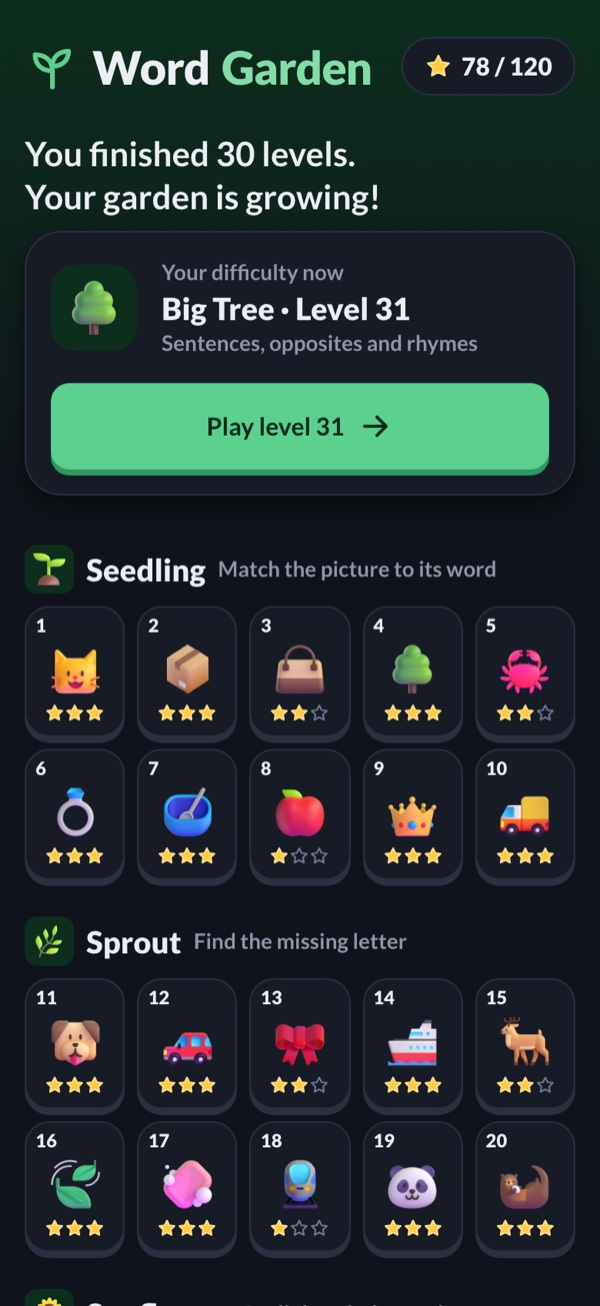
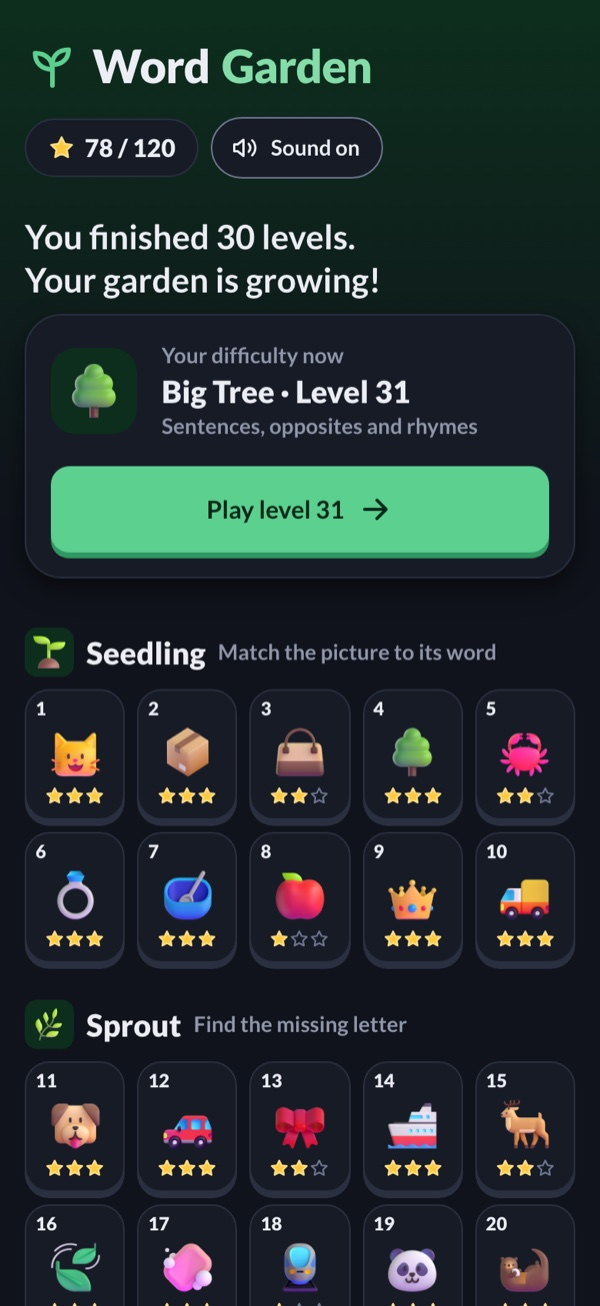
Sound effects for right and wrong answers, with a Sound on/off toggle
Web Audio chime (C5-E5-G5-C6 triangle) for right, soft sawtooth uh-oh for
wrong, no sound files. The word is spoken 450 ms after the chime, only if
the same card is still showing. Audio unlocks on the first tap or key.
The home-screen toggle is saved as P.sound, survives Start over, and plays
the chime when turned on; it mutes the effects only.

diff --git a/app.js b/app.js
@@ -45,6 +45,7 @@ const ICON={
   lock:'<rect x="5" y="11" width="14" height="10" rx="2"/><path d="M8 11V8a4 4 0 0 1 8 0v3"/>',
   unlock:'<rect x="5" y="11" width="14" height="10" rx="2"/><path d="M8 11V8a4 4 0 0 1 7.7-1.5"/>',
   speaker:'<path d="M11 5 6 9H3v6h3l5 4V5z"/><path d="M15.5 8.5a5 5 0 0 1 0 7"/><path d="M18.5 5.5a9 9 0 0 1 0 13"/>',
+  mute:'<path d="M11 5 6 9H3v6h3l5 4V5z"/><path d="m16 9 6 6M22 9l-6 6"/>',
   trophy:'<path d="M8 4h8v5a4 4 0 0 1-8 0V4z"/><path d="M16 6h3a3 3 0 0 1-3 4M8 6H5a3 3 0 0 0 3 4"/><path d="M12 13v4M8 21h8M9 17h6v4H9z"/>',
   back:'<path d="m15 18-6-6 6-6"/>',
   next:'<path d="M5 12h14M13 6l6 6-6 6"/>',
@@ -108,6 +109,18 @@ function say(t){
   try{const u=new SpeechSynthesisUtterance(t);u.rate=.8;u.lang="en-US";if(voice)u.voice=voice;speechSynthesis.cancel();speechSynthesis.speak(u)}catch(e){}
 }
 function hush(){try{NATIVE_TTS?NATIVE_TTS.stop().catch(()=>{}):speechSynthesis.cancel()}catch(e){}}
+// ---------- sound effects (Web Audio, no files) ----------
+// Right: a rising triangle chime C5-E5-G5-C6. Wrong: a soft low sawtooth "uh-oh". The toggle mutes these only, not the spoken word.
+let AC=null;
+const soundOn=()=>P.sound!==false;
+function unlockAudio(){try{AC=AC||new(window.AudioContext||window.webkitAudioContext)();if(AC.state==="suspended")AC.resume()}catch(e){}}
+function tone(f,at,dur,type,vol){const o=AC.createOscillator(),g=AC.createGain();o.type=type;o.frequency.setValueAtTime(f,at);g.gain.setValueAtTime(0,at);g.gain.linearRampToValueAtTime(vol,at+.015);g.gain.exponentialRampToValueAtTime(.0001,at+dur);o.connect(g).connect(AC.destination);o.start(at);o.stop(at+dur+.05)}
+function sfx(kind){if(!soundOn())return;try{unlockAudio();const t=AC.currentTime+.01;
+  if(kind==="right")[523.25,659.25,783.99,1046.5].forEach((f,i)=>tone(f,t+i*.08,.32,"triangle",.22));
+  else{tone(196,t,.14,"sawtooth",.07);tone(147,t+.13,.26,"sawtooth",.07)}}catch(e){}}
+// Browsers only start audio after a gesture; unlock on the first tap or key so the delayed spelling result can still play.
+document.addEventListener("pointerdown",unlockAudio);
+document.addEventListener("keydown",unlockAudio);
 const announce=t=>{const n=$("#say");n.textContent="";setTimeout(()=>n.textContent=t,30)};
 const KEY="word-garden-v2"; // v2: 40 levels (v1 had 12 with different numbering)
 function load(){try{const p=JSON.parse(localStorage.getItem(KEY));return p&&p.stars?p:{stars:{}}}catch(e){return{stars:{}}}}
@@ -125,7 +138,7 @@ function home(focusSel){
   stopAdvance();G=null;hush();
   const next=unlockedUpTo(), done=finished(), t=TIERS[tierOf(next)];
   const allDone=done>=LEVELS.length;
-  let h=`<div class="top"><h1 class="brand">${LOGO}Word <span>Garden</span></h1><div class="pill" role="img" aria-label="${totalStars()} of ${LEVELS.length*3} stars">${oneStar} ${totalStars()} / ${LEVELS.length*3}</div></div>
+  let h=`<div class="top"><h1 class="brand">${LOGO}Word <span>Garden</span></h1><div class="topr"><div class="pill" role="img" aria-label="${totalStars()} of ${LEVELS.length*3} stars">${oneStar} ${totalStars()} / ${LEVELS.length*3}</div><button class="k-btn k-btn-outline k-btn-sm soundbtn" id="snd" aria-pressed="${soundOn()}">${ic(soundOn()?"speaker":"mute","k-icon sm")}Sound ${soundOn()?"on":"off"}</button></div></div>
   <p class="hello">${done?`You finished ${done} level${done>1?"s":""}. Your garden is growing!`:"Hi! Let’s grow your first words."}</p>
   <div class="now"><span class="badge">${art(allDone?"🏆":t.e)}</span><div><small>${allDone?"Every level finished":"Your difficulty now"}</small><b>${allDone?"Word Master!":`${t.name} · Level ${next}`}</b><small>${allDone?"Replay any level to collect more stars":t.skill}</small></div>
   <button class="k-btn k-btn-primary k-btn-lg chunky go" data-play="${allDone?1:next}">${allDone?"Play again":"Play level "+next}${ic("next")}</button></div><div class="home-grid">`;
@@ -143,8 +156,9 @@ function home(focusSel){
   <p class="credit">Progress stays on this device. Words are read aloud by the device’s own voice.</p>`;
   $("#app").innerHTML=h;
   document.querySelectorAll("[data-play]").forEach(b=>b.onclick=()=>start(+b.dataset.play));
+  $("#snd").onclick=()=>{P.sound=!soundOn();save();if(P.sound){unlockAudio();sfx("right")}home("#snd");announce(P.sound?"Sound on":"Sound off")};
   const r=$("#reset");if(r)r.onclick=()=>{confirmReset=true;home("#no")};
-  const y=$("#yes");if(y)y.onclick=()=>{P={stars:{}};save();confirmReset=false;home("#reset");announce("Progress cleared")};
+  const y=$("#yes");if(y)y.onclick=()=>{P={stars:{},sound:P.sound};save();confirmReset=false;home("#reset");announce("Progress cleared")};
   const n=$("#no");if(n)n.onclick=()=>{confirmReset=false;home("#reset")};
   if(focusSel&&$(focusSel))$(focusSel).focus();
 }
@@ -195,7 +209,7 @@ function renderCard(){
   $("#next").onclick=goNext;
   const card=$("#card");
   let solved=false;
-  const wrong=el=>{G.miss++;card.classList.remove("shake");void card.offsetWidth;card.classList.add("shake");if(el){el.classList.add("wrong");el.setAttribute("aria-disabled","true");el.setAttribute("aria-label",`${el.textContent}, not this one`)}announce("Not quite. Try again.")};
+  const wrong=el=>{G.miss++;sfx("wrong");card.classList.remove("shake");void card.offsetWidth;card.classList.add("shake");if(el){el.classList.add("wrong");el.setAttribute("aria-disabled","true");el.setAttribute("aria-label",`${el.textContent}, not this one`)}announce("Not quite. Try again.")};
   const right=el=>{
     if(solved)return;solved=true;keyHandler=null;
     card.classList.remove("shake");card.classList.add("solved");
@@ -206,7 +220,8 @@ function renderCard(){
     if(c.kind==="choice"){card.querySelectorAll(".opt").forEach(b=>{b.disabled=true;if(b===el)b.classList.add("right")})}
     else{card.querySelectorAll(".slot").forEach(s=>s.classList.add("ok"));$("#slots").setAttribute("aria-label","You spelled "+c.answer);$("#tiles").hidden=true;$("#undo").hidden=true}
     const done=$("#done"), next=$("#next");done.hidden=false;
-    say(c.sayExtra||c.backWord);
+    sfx("right");
+    const spoken=c;setTimeout(()=>{if(G&&G.cards[G.i]===spoken)say(c.sayExtra||c.backWord)},450); // after the chime
     announce(`Correct! ${c.backWord}. ${last?"Finishing the level":"Next card"} in ${WAIT/1000} seconds.`);
     next.focus({preventScroll:true});
     next.style.setProperty("--wait",WAIT+"ms");void next.offsetWidth;next.classList.add("counting");

diff --git a/app.css b/app.css
@@ -35,6 +35,8 @@ button { font: inherit; color: inherit; }
 .brand { display: flex; align-items: center; gap: var(--space-2); font: 900 30px/1 var(--font-display); letter-spacing: -0.02em; margin: 0; }
 .brand svg { width: 36px; height: 36px; color: var(--primary); }
 .brand span { color: var(--primary-text); }
+.topr { display: flex; align-items: center; gap: var(--space-2); flex-wrap: wrap; }
+.soundbtn { border-radius: var(--radius-pill); min-height: 40px; padding: 0 14px 0 12px; }
 .pill { display: inline-flex; align-items: center; gap: 6px; background: var(--surface); border: var(--border-control) solid var(--line); border-radius: var(--radius-pill); padding: 6px 14px; font-weight: 900; font-variant-numeric: tabular-nums; }
 .hello { margin: var(--space-6) 0 var(--space-2); font: 700 22px/28px var(--font-display); text-wrap: balance; }
 .now { display: flex; gap: var(--space-4); align-items: center; flex-wrap: wrap; background: var(--surface); border: var(--border-control) solid var(--line); border-radius: var(--radius-xl); padding: var(--space-4); box-shadow: var(--shadow-2); margin-bottom: var(--space-8); }

diff --git a/README.md b/README.md
@@ -8,6 +8,7 @@ Live: https://word-garden-sable.vercel.app
 - **No repeats.** About 160 picture words are dealt into fixed sets, so a word is a question in only one level; every Big Tree sentence, opposite and rhyme is used once.
 - **Difficulty follows the child.** A level opens only when the one before it is finished. Inside each stage the words get longer, choices go from 2 to 4 (wrong picture choices have the same length), and spelling decoys go from 0 to 3.
 - **One card per question.** Right: the choice turns green, the card shows the completed word or sentence in Andika (a font for early readers), says it aloud, and moves on after 2 seconds (Next skips the wait). Wrong: the card shakes and the choice is crossed out.
+- **Sound effects:** a bright rising chime for a right answer and a soft low "uh-oh" for a wrong one, made with Web Audio (no sound files). The word is read aloud just after the chime. A Sound on/off button on the home screen mutes the effects (it is saved and survives Start over); the read-aloud word stays.
 - **Stars, not scores:** 3 for a perfect round, 2 for up to two slips, 1 otherwise. Progress stays on the device.
 - Works with touch, mouse and keyboard (type the letters on spelling cards, Backspace to undo, Esc or the Home button on every screen to get back to the map), and announces right and wrong answers to screen readers.
 - Installable PWA that works offline after the first visit; Android app via a Capacitor shell with native text-to-speech.

diff --git a/BRIEF.md b/BRIEF.md
@@ -24,6 +24,7 @@ Children aged about 4 to 7 who are starting to read English need lots of short, 
 
 ## Data
 - Hand-written word bank (161 picture words, 20 sentences, 15 opposites, 15 rhymes). Pictures are Microsoft Fluent Emoji 3D PNGs (MIT), bundled in img/.
+- Sound effects: a chime for right and a soft "uh-oh" for wrong, generated with Web Audio; Sound on/off toggle on the home screen.
 - Speech: the device's own text-to-speech (Web Speech API; native TTS plugin in the Android shell).
 - Progress: localStorage only, no account.
 
